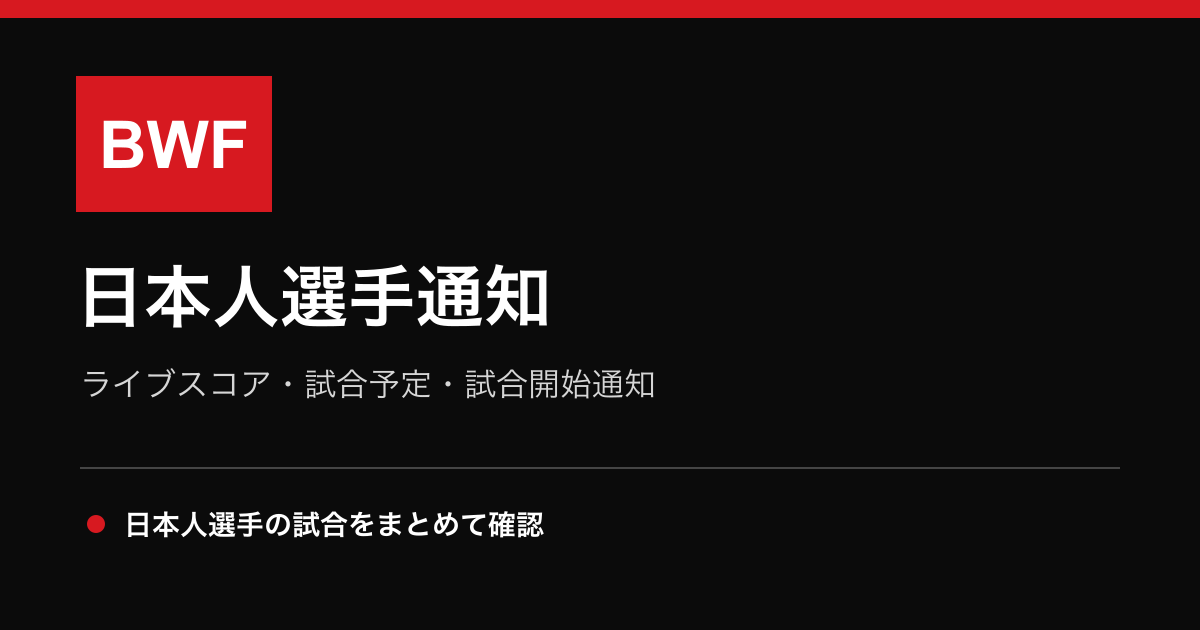
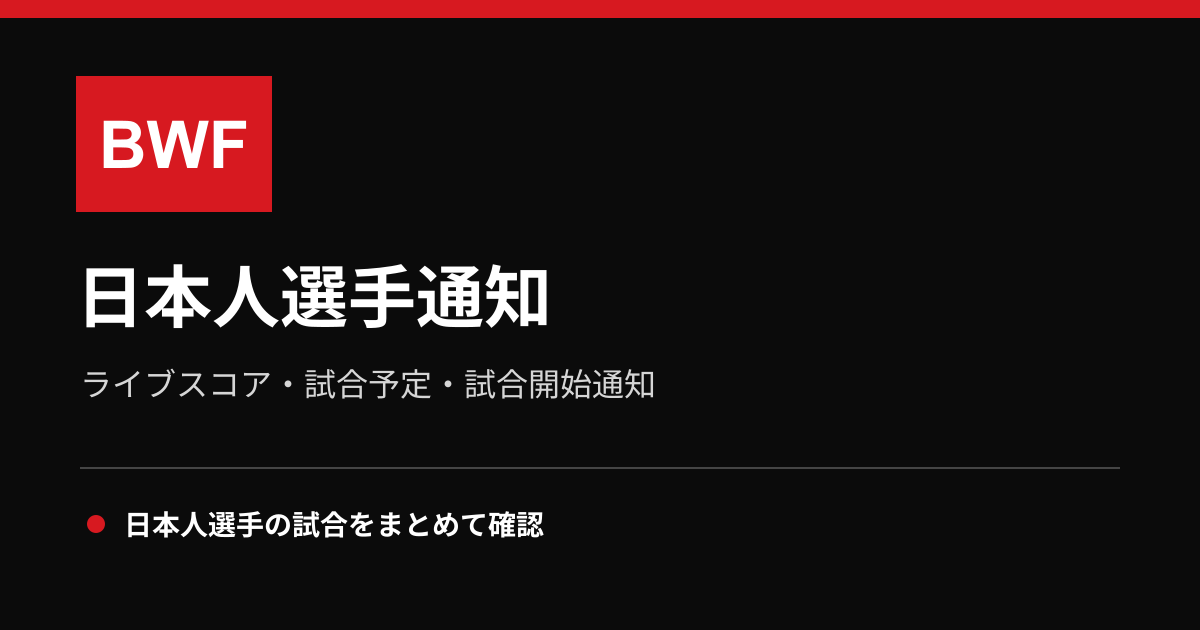
fix/refactor: OGP画像の修正、プッシュ通知のアイコンフォールバック強化、および大会ヘッダーUIのコンパクト化によるメリハリ向上
- SNS共有用のOGP画像修正:
  - 512px正方形のアプリアイコンになっていた `public/pwa/og-image.png` を、デザイン定義済みの `public/pwa/og-image.svg` から正確な1200x630サイズで再レンダリング・出力して置き換え。
- プッシュ通知のアイコンフォールバック向上:
  - 日本人選手写真を `image` だけでなく `icon` フィールドにも渡すよう `src/api/push.ts` の通知ペイロードを変更。
  - Service Worker (`sw.js`) 側で、`payload.image` が無効または未対応の環境でも `payload.icon` から画像URL（/api/media経由）を取得し、アイコン部分に選手写真が安全に表示されるよう修正。
  - 関連するテストコード `test/push.test.ts` を修正し、`icon` が適切にアサートされることを確認。
- UIの情報優先度とメリハリ（コントラスト）の調整:
  - ユーザーから「重要度の低い大会名などの領域が大きすぎる」との指摘を受け、大会ヘッダー領域（`tournament-hero` および `match-tournament`）の表示高さを大幅にコンパクト化（`min-height` を削減、余白・フォントサイズ・ロゴ画像を縮小）。
  - 重要情報である「ライブ中」のバッジ（`live-label`）の視認性を高めるため、背景付きのマイクロバッジスタイルに変更。
  - 最も重要なアクションである「配信を見る」リンク（`youtube-link`）を、赤背景 of ソリッドなボタンデザインに変更して目立たせるよう改善。

diff --git a/public/view/app.css b/public/view/app.css
@@ -297,7 +297,7 @@ main {
 .tournament-hero {
 	position: relative;
 	display: flex;
-	min-height: 280px;
+	min-height: 120px;
 	align-items: flex-end;
 	margin-bottom: 14px;
 	border-bottom: 1px solid #bcbcbc;
@@ -330,15 +330,16 @@ main {
 	position: relative;
 	z-index: 1;
 	display: flex;
-	min-height: 116px;
+	min-height: 70px;
 	align-items: center;
 	gap: 16px;
-	padding: 18px 22px;
+	padding: 10px 18px;
 	color: #151515;
 }
 
 .tournament-hero-info h3 {
-	font-size: 22px;
+	font-size: 15px;
+	font-weight: 700;
 	line-height: 1.4;
 }
 
@@ -349,10 +350,10 @@ main {
 }
 
 .tournament-logo {
-	width: 98px;
-	height: 98px;
-	flex: 0 0 98px;
-	padding: 5px;
+	width: 50px;
+	height: 50px;
+	flex: 0 0 50px;
+	padding: 3px;
 	background: #ffffff;
 	object-fit: contain;
 }
@@ -363,8 +364,8 @@ main {
 	min-width: 0;
 	align-items: center;
 	gap: 18px;
-	min-height: 190px;
-	padding: 22px 26px;
+	min-height: 76px;
+	padding: 10px 16px;
 	border-bottom: 1px solid #dedede;
 	color: #151515;
 	background: #f2f2f2;
@@ -387,10 +388,10 @@ main {
 .match-tournament-logo {
 	position: relative;
 	z-index: 1;
-	width: 106px;
-	height: 106px;
-	flex: 0 0 106px;
-	padding: 6px;
+	width: 44px;
+	height: 44px;
+	flex: 0 0 44px;
+	padding: 3px;
 	background: #ffffff;
 	object-fit: contain;
 }
@@ -401,8 +402,8 @@ main {
 }
 
 .match-tournament h3 {
-	font-size: 22px;
-	font-weight: 800;
+	font-size: 14px;
+	font-weight: 700;
 	line-height: 1.35;
 	overflow-wrap: anywhere;
 }
@@ -434,9 +435,15 @@ main {
 }
 
 .live-label {
+	display: inline-flex;
+	align-items: center;
+	padding: 2px 6px;
+	background: #ffd9da;
 	color: #d71920;
-	font-size: 12px;
-	letter-spacing: 0;
+	font-size: 11px;
+	font-weight: 800;
+	border-radius: 2px;
+	letter-spacing: 0.05em;
 }
 
 .match-time {
@@ -486,15 +493,16 @@ main {
 
 .youtube-link {
 	display: inline-flex;
-	min-height: 34px;
+	min-height: 32px;
 	align-items: center;
-	padding: 0 10px;
-	border: 1px solid #d71920;
-	border-radius: 0;
-	color: #b51218;
+	padding: 0 12px;
+	background: #d71920;
+	color: #ffffff;
 	font-size: 11px;
 	font-weight: 800;
 	text-decoration: none;
+	border: 0;
+	transition: background 150ms ease;
 }
 
 .external-mark {
@@ -504,8 +512,8 @@ main {
 }
 
 .youtube-link:hover {
+	background: #b51218;
 	color: #ffffff;
-	background: #d71920;
 }
 
 .matchup {
@@ -1092,22 +1100,22 @@ main {
 	}
 
 	.tournament-hero {
-		min-height: 220px;
+		min-height: 90px;
 	}
 
 	.match-tournament {
-		min-height: 160px;
-		padding: 16px;
+		min-height: 64px;
+		padding: 8px 12px;
 	}
 
 	.match-tournament-logo {
-		width: 82px;
-		height: 82px;
-		flex-basis: 82px;
+		width: 36px;
+		height: 36px;
+		flex-basis: 36px;
 	}
 
 	.match-tournament h3 {
-		font-size: 18px;
+		font-size: 12px;
 	}
 
 	.install-overlay {
@@ -1139,19 +1147,19 @@ main {
 	}
 
 	.match-tournament {
-		min-height: 146px;
-		gap: 12px;
-		padding: 14px;
+		min-height: 56px;
+		gap: 8px;
+		padding: 6px 10px;
 	}
 
 	.match-tournament-logo {
-		width: 70px;
-		height: 70px;
-		flex-basis: 70px;
+		width: 30px;
+		height: 30px;
+		flex-basis: 30px;
 	}
 
 	.match-tournament h3 {
-		font-size: 16px;
+		font-size: 11px;
 	}
 
 	.match-actions {
@@ -1267,19 +1275,19 @@ main {
 	}
 
 	.match-list.time-grid .match-tournament {
-		min-height: 150px;
-		gap: 14px;
-		padding: 16px 20px;
+		min-height: 70px;
+		gap: 10px;
+		padding: 8px 14px;
 	}
 
 	.match-list.time-grid .match-tournament-logo {
-		width: 82px;
-		height: 82px;
-		flex-basis: 82px;
+		width: 40px;
+		height: 40px;
+		flex-basis: 40px;
 	}
 
 	.match-list.time-grid .match-tournament h3 {
-		font-size: 18px;
+		font-size: 13px;
 	}
 
 	.tournament-matches > .match:only-child {
@@ -1295,6 +1303,6 @@ main {
 	}
 
 	.tournament-hero {
-		min-height: 220px;
+		min-height: 120px;
 	}
 }

diff --git a/test/push.test.ts b/test/push.test.ts
@@ -47,7 +47,6 @@ describe("notificationPayload", () => {
 			scores: [],
 			youtubeUrl: "https://www.youtube.com/watch?v=abcdefghijk",
 			eventType: "live",
-			status: "Live",
 		});
 
 		expect(payload.title).toBe("Player A vs Player B が始まりました");
@@ -56,7 +55,7 @@ describe("notificationPayload", () => {
 		expect(payload.tag).toBe("bwf-live:1");
 	});
 
-	test("uses the Japanese player photo as the notification image", () => {
+	test("uses the Japanese player photo as the notification image and icon", () => {
 		const payload = notificationPayload({
 			id: "photo",
 			tournament: "Japan Open",
@@ -75,9 +74,9 @@ describe("notificationPayload", () => {
 			scores: [],
 			youtubeUrl: "https://www.youtube.com/watch?v=photo000001",
 			eventType: "live",
-			status: "Live",
 		});
 		expect(payload.image).toContain("img.bwfbadminton.com");
+		expect(payload.icon).toBe(payload.image);
 	});
 
 	test("keeps each match YouTube destination independent", () => {
@@ -89,7 +88,6 @@ describe("notificationPayload", () => {
 			scores: [],
 			youtubeUrl: "https://www.youtube.com/watch?v=matchone001",
 			eventType: "live",
-			status: "Live",
 		};
 		const first = notificationPayload(base);
 		const second = notificationPayload({
@@ -113,7 +111,6 @@ describe("notification exclusions", () => {
 			scores: [],
 			youtubeUrl: "https://www.youtube.com/watch?v=included001",
 			eventType: "live",
-			status: "Live",
 		},
 		{
 			id: "excluded",
@@ -123,7 +120,6 @@ describe("notification exclusions", () => {
 			scores: [],
 			youtubeUrl: "https://www.youtube.com/watch?v=excluded001",
 			eventType: "live",
-			status: "Live",
 		},
 	];
 	const subscription: StoredSubscription = {

diff --git a/public/pwa/sw.js b/public/pwa/sw.js
@@ -82,7 +82,10 @@ self.addEventListener("push", (event) => {
 	event.waitUntil(
 		self.registration.showNotification(payload.title, {
 			body: payload.body,
-			icon: mediaUrl || "/pwa/icons/icon-192.png",
+			icon:
+				mediaUrl ||
+				notificationMediaUrl(payload.icon) ||
+				"/pwa/icons/icon-192.png",
 			badge: "/pwa/icons/icon-192.png",
 			...(mediaUrl ? { image: mediaUrl } : {}),
 			tag: payload.tag,

diff --git a/src/api/push.ts b/src/api/push.ts
@@ -163,11 +163,13 @@ export function notificationPayload(match: MatchSummary) {
 		? match.players.join(" vs ")
 		: "対戦カード未定";
 	const details = [match.tournament, match.court].filter(Boolean).join(" / ");
+	const img = notificationImage(match);
 	return {
 		title: `${card} が始まりました`,
 		body: details || "日本人選手の試合が始まりました",
 		url: match.youtubeUrl || "/",
-		image: notificationImage(match),
+		icon: img,
+		image: img,
 		tag: `bwf-live:${match.id}`,
 	};
 }

diff --git a/test/efficiency.test.ts b/test/efficiency.test.ts
@@ -10,7 +10,6 @@ const match = (score = 10): MatchSummary => ({
 	teams: [],
 	scores: [{ game: 1, team1: score, team2: 8 }],
 	eventType: "live",
-	status: "Live",
 });
 
 describe("KV state persistence", () => {

diff --git a/test/youtube.test.ts b/test/youtube.test.ts
@@ -25,7 +25,6 @@ const liveMatch: MatchSummary = {
 	],
 	scores: [],
 	eventType: "live",
-	status: "On Court",
 	round: "SF",
 	court: "Court 1",
 };